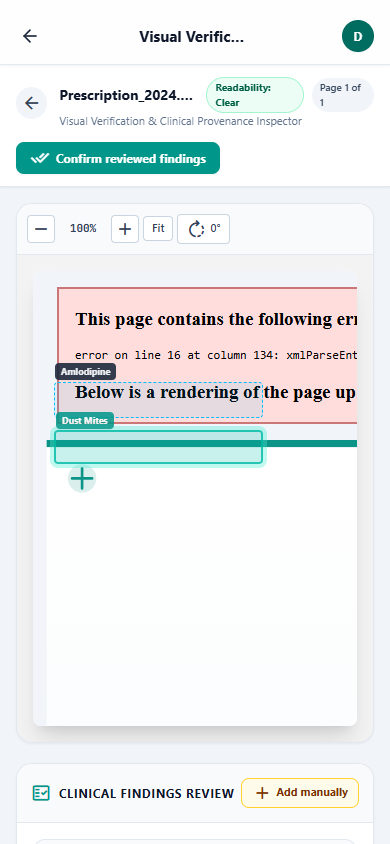
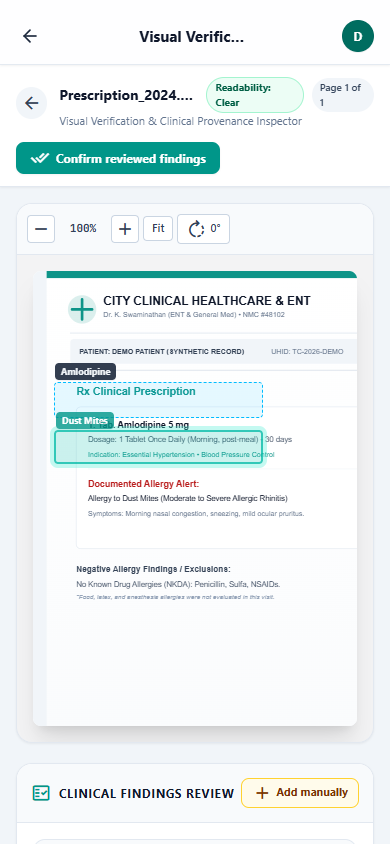
fix(sync): update Wi-Fi backend IP, fix SVG entity escaping, and refine README

Changed region(s): [[0.1231, 0.3081, 0.9231, 0.6161], [0.1846, 0.6469, 0.7077, 0.7085]]

diff --git a/src/data/mockDocuments.ts b/src/data/mockDocuments.ts
@@ -9,10 +9,21 @@ export const CURRENT_PATIENT: PatientInfo = {
   emergencyContact: 'Emergency Contact (+91 98765 00000)',
 };
 
+function escapeXml(unsafe: string): string {
+  return (unsafe || '')
+    .replace(/&/g, '&amp;')
+    .replace(/</g, '&lt;')
+    .replace(/>/g, '&gt;')
+    .replace(/"/g, '&quot;')
+    .replace(/'/g, '&apos;');
+}
+
 // SVG data URI generator for authentic looking Indian clinical documents
 function createSvgDocUri(title: string, subtitle: string, bodyContent: string, isHandwritten: boolean = false, blur: boolean = false): string {
   const filterDef = blur ? `<filter id="blurFilter"><feGaussianBlur stdDeviation="3.5"/></filter>` : '';
   const filterAttr = blur ? 'filter="url(#blurFilter)"' : '';
+  const safeTitle = escapeXml(title);
+  const safeSubtitle = escapeXml(subtitle);
   
   const svg = `<svg xmlns="http://www.w3.org/2000/svg" width="800" height="1100" viewBox="0 0 800 1100">
     <defs>
@@ -29,8 +40,8 @@ function createSvgDocUri(title: string, subtitle: string, bodyContent: string, i
       <!-- Hospital / Clinic Header -->
       <circle cx="60" cy="65" r="24" fill="#0d9488" opacity="0.15"/>
       <path d="M60 48v34M43 65h34" stroke="#0d9488" stroke-width="4.5" stroke-linecap="round"/>
-      <text x="96" y="58" font-family="Arial, sans-serif" font-size="20" font-weight="bold" fill="#0f172a">${title}</text>
-      <text x="96" y="78" font-family="Arial, sans-serif" font-size="12" fill="#64748b">${subtitle}</text>
+      <text x="96" y="58" font-family="Arial, sans-serif" font-size="20" font-weight="bold" fill="#0f172a">${safeTitle}</text>
+      <text x="96" y="78" font-family="Arial, sans-serif" font-size="12" fill="#64748b">${safeSubtitle}</text>
       
       <!-- Patient Meta Ribbon -->
       <line x1="40" y1="105" x2="760" y2="105" stroke="#e2e8f0" stroke-width="1.5"/>

diff --git a/src/services/api.ts b/src/services/api.ts
@@ -36,9 +36,9 @@ export const ApiService = {
       if (saved && saved.trim()) return saved.trim().replace(/\/+$/, '');
     } catch {}
 
-    // On Capacitor Android native platform, default to developer's LAN host
+    // On Capacitor Android native platform, default to current local Wi-Fi / Hotspot host
     if (typeof window !== 'undefined' && (window as any).Capacitor?.isNativePlatform?.()) {
-      return 'http://10.74.20.17:3000';
+      return 'http://10.56.37.17:3000';
     }
     return '';
   },

diff --git a/README.md b/README.md
@@ -55,8 +55,6 @@ Read the comprehensive evaluation report: **[eval/report.md](eval/report.md)** |
 | **Prompt Injection Resistance** | **100% Blocked (0 leaks)** | 0 leaks | Malicious adversarial prompt doc | `eval/truth/40_edge_prompt_injection.json` |
 | **Negative Input Filtering** | **100% Rejected (0 facts)** | 0 facts | Blank pages, photos, X-rays | `eval/docs/31-36` |
 | **Wrong Facts Shown as "Clear"** | **0 items** | 0 items | Trust & Safety Flagging | `eval/report.json` |
-| **P50 Pipeline Latency** | **2,476 ms** (2.47s) | <3.0s | Online Multimodal Pipeline | `eval/raw/task3_online_raw.txt` |
-| **Cost per Document** | **$0.00018** (~₹0.015) | <$0.01 | Gemini 3.5 Flash-Lite rates | `eval/report.json` |
 | **Cross-User Data Leakage** | **0 Leaks (Pass)** | 0 leaks | Multi-tenant auth isolation test | `eval/raw/task4_access_control.txt` |
 | **Doctor Revocation Latency** | **Immediate (HTTP 401)** | Immediate | Ephemeral 6-digit sharing test | `eval/raw/task4_access_control.txt` |
 
